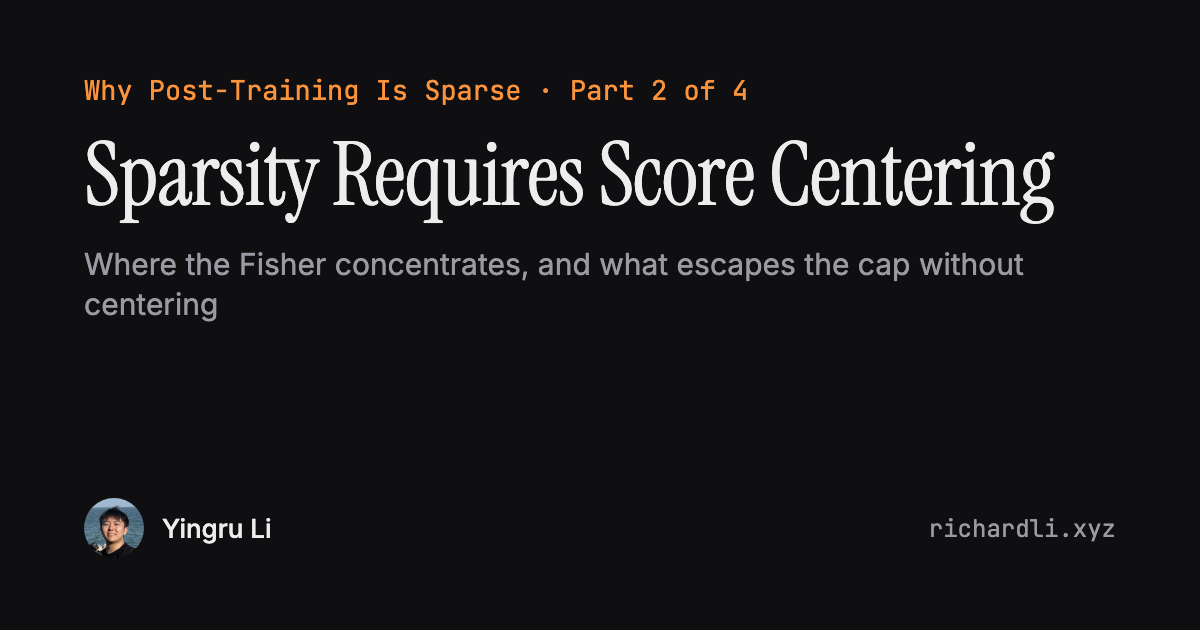
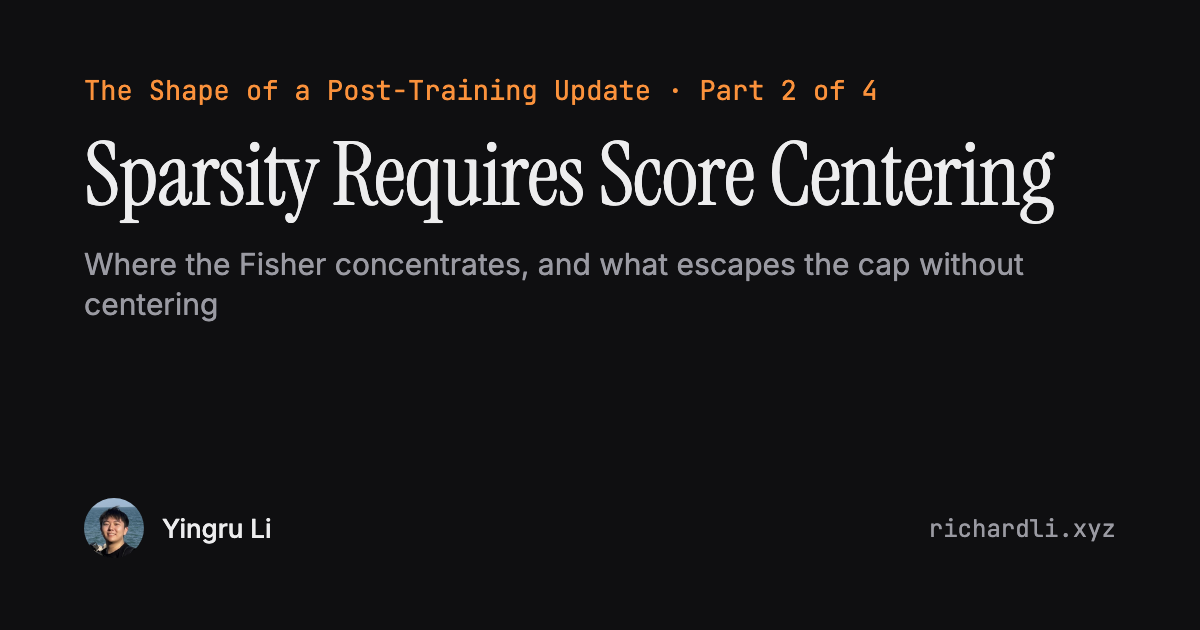
Rename series to The Shape of a Post-Training Update; broaden homepage science highlight

Changed region(s): [[0.0617, 0.1206, 0.74, 0.181]]

diff --git a/content/post/low-rank-hidden-space/index.md b/content/post/low-rank-hidden-space/index.md
@@ -1,6 +1,6 @@
 ---
 title: "Sparse in the Vocabulary, Low-Rank in Hidden Space"
-subtitle: "Why Post-Training Is Sparse, Part 4: the tokens that compete at forks bound the rank of the update"
+subtitle: "The Shape of a Post-Training Update, Part 4: the tokens that compete at forks bound the rank of the update"
 summary: "At the output layer only the rows of tokens that compete can move. The signal that backpropagation carries into the network is the drawn token's output vector minus the sampler's average, so it lies in the span of differences of those vectors and vanishes where the sampler is sure. A linear map that feeds the unembedding therefore gets an expected update of rank at most the number of competing tokens minus one, plus a leak set by the tail mass, and a LoRA of that rank carries the main part. Measured updates are numerically full rank yet spectrally concentrated; the optimizer and many steps account for the difference."
 authors:
   - admin
@@ -20,12 +20,12 @@ lastmod: '2026-10-24T00:00:00Z'
 math: true
 draft: false
 series:
-  - Why Post-Training Is Sparse
+  - The Shape of a Post-Training Update
 series_order: 4
 ---
 
 {{% callout note %}}
-**Why Post-Training Is Sparse · Part 4 of 4.** Follows the hidden-layer Fisher of [Part 2](/post/sparsity-score-centering/#2-hidden-layers-a-few-directions) from a cap on each parameter to the rank of a whole update.
+**The Shape of a Post-Training Update · Part 4 of 4.** Follows the hidden-layer Fisher of [Part 2](/post/sparsity-score-centering/#2-hidden-layers-a-few-directions) from a cap on each parameter to the rank of a whole update.
 
 - **The same tokens, in two bases.** At the output layer only the rows of tokens that compete can move: sparsity in the vocabulary. Inside the network those tokens appear through their output vectors, and the update is confined to the few directions that tell them apart: low rank in hidden space.
 - **Only forks send signal.** Backpropagation carries the drawn token's output vector minus the sampler's average. Its expected size shrinks to zero as the sampler's top token approaches probability one, so positions where the sampler is sure contribute almost nothing.

diff --git a/content/post/sparsity-score-centering/index.md b/content/post/sparsity-score-centering/index.md
@@ -1,6 +1,6 @@
 ---
 title: "Sparsity Requires Score Centering"
-subtitle: "Why Post-Training Is Sparse, Part 2: where the Fisher concentrates, and what escapes the cap without centering"
+subtitle: "The Shape of a Post-Training Update, Part 2: where the Fisher concentrates, and what escapes the cap without centering"
 summary: "Sparsity needs two ingredients. A score centered under the sampler makes the Fisher a cap on each parameter's update, and the Fisher is concentrated when the sampler puts its mass on a few likely tokens that react alike. Without centering, a mean shift escapes the cap. Supervised fine-tuning is all mean shift, because its signal is constant, so centering would leave nothing to learn."
 authors:
   - admin
@@ -20,12 +20,12 @@ lastmod: '2026-10-15T00:10:00Z'
 math: true
 draft: false
 series:
-  - Why Post-Training Is Sparse
+  - The Shape of a Post-Training Update
 series_order: 2
 ---
 
 {{% callout note %}}
-**Why Post-Training Is Sparse · Part 2 of 4.** Starts from the cap derived in [Part 1](/post/gradient-is-covariance/); [Part 3](/post/what-policy-gradient-can-reach/) asks what policy gradient can reach, and [Part 4](/post/low-rank-hidden-space/) follows the hidden-layer directions of section 2 to the rank of the update.
+**The Shape of a Post-Training Update · Part 2 of 4.** Starts from the cap derived in [Part 1](/post/gradient-is-covariance/); [Part 3](/post/what-policy-gradient-can-reach/) asks what policy gradient can reach, and [Part 4](/post/low-rank-hidden-space/) follows the hidden-layer directions of section 2 to the rank of the update.
 
 - **Two ingredients.** Centering under the sampler makes the Fisher a cap on each parameter's expected update, and a concentrated Fisher leaves room under that cap for only a few parameters. The reward picks which of those move.
 - **Centering can be done on either side.** On-policy sampling centers the score for free. Off-policy, subtract the score's average under the sampler, weight each token by its importance ratio, or subtract from the signal a per-prefix value baseline fitted on the samples, which needs no sampler probabilities.

diff --git a/content/post/what-policy-gradient-can-reach/index.md b/content/post/what-policy-gradient-can-reach/index.md
@@ -1,6 +1,6 @@
 ---
 title: "What Policy Gradient Can Reach"
-subtitle: "Why Post-Training Is Sparse, Part 3: a one-step bound on how far any response can move, and its limits"
+subtitle: "The Shape of a Post-Training Update, Part 3: a one-step bound on how far any response can move, and its limits"
 summary: "Per unit step of policy gradient, the log-odds between two responses change by at most std(A) times their score difference measured in the sampler's Fisher: a response moves only as far as it resembles what the sampler produces. With one logit per response, a rare response takes time proportional to one over its probability, while a demonstration needs only logarithmic time. The bound covers one step of one estimator; shared structure, many steps and a different sampler can all widen what policy gradient reaches."
 authors:
   - admin
@@ -19,12 +19,12 @@ lastmod: '2026-10-15T00:20:00Z'
 math: true
 draft: false
 series:
-  - Why Post-Training Is Sparse
+  - The Shape of a Post-Training Update
 series_order: 3
 ---
 
 {{% callout note %}}
-**Why Post-Training Is Sparse · Part 3 of 4.** Starts from the cap of [Part 1](/post/gradient-is-covariance/) and the concentrated Fisher of [Part 2](/post/sparsity-score-centering/); [Part 4](/post/low-rank-hidden-space/) bounds the rank of the update.
+**The Shape of a Post-Training Update · Part 3 of 4.** Starts from the cap of [Part 1](/post/gradient-is-covariance/) and the concentrated Fisher of [Part 2](/post/sparsity-score-centering/); [Part 4](/post/low-rank-hidden-space/) bounds the rank of the update.
 
 - **Reach follows resemblance.** Per unit step, the log-odds of a response against another change by at most std(*A*) · √(*v*ᵀ*Fv*), with *v* their score difference and *F* the sampler's Fisher.
 - **Resemblance reaches unsampled responses.** A response never drawn but similar to rewarded samples, like *matcha* after *tea*, moves with them; one that resembles nothing the sampler produces barely moves.

diff --git a/content/post/gradient-is-covariance/index.md b/content/post/gradient-is-covariance/index.md
@@ -1,6 +1,6 @@
 ---
 title: "The Gradient Is a Covariance"
-subtitle: "Why Post-Training Is Sparse, Part 1: the score, the Fisher, and a bound that holds for any reward"
+subtitle: "The Shape of a Post-Training Update, Part 1: the score, the Fisher, and a bound that holds for any reward"
 summary: "On the model's own samples the score has zero mean, so the expected policy gradient is the covariance between the learning signal and the score, and the Fisher is the score's variance. A parameter can move only if its Fisher is large; whether it does is up to the reward. Off-policy, all of this holds once the score is centered under the sampler."
 authors:
   - admin
@@ -19,12 +19,12 @@ lastmod: '2026-10-15T00:00:00Z'
 math: true
 draft: false
 series:
-  - Why Post-Training Is Sparse
+  - The Shape of a Post-Training Update
 series_order: 1
 ---
 
 {{% callout note %}}
-**Why Post-Training Is Sparse · Part 1 of 4.** [Part 2](/post/sparsity-score-centering/) finds where the sparsity comes from. [Part 3](/post/what-policy-gradient-can-reach/) asks what policy gradient can reach. [Part 4](/post/low-rank-hidden-space/) turns the same few directions into a bound on the rank of the update.
+**The Shape of a Post-Training Update · Part 1 of 4.** [Part 2](/post/sparsity-score-centering/) finds where the sparsity comes from. [Part 3](/post/what-policy-gradient-can-reach/) asks what policy gradient can reach. [Part 4](/post/low-rank-hidden-space/) turns the same few directions into a bound on the rank of the update.
 
 - Reinforcement learning (RL), on-policy distillation and supervised fine-tuning (SFT) on near-policy data change only a small fraction of parameters. **Small** and **sparse** are different claims; the question is which coordinates move.
 - On the model's own samples the score has **zero mean**. So the expected gradient is a **covariance**, the Fisher is a **variance**, and the Fisher caps the gradient for any reward.

diff --git a/content/post/information-bandwidth-rl/index.md b/content/post/information-bandwidth-rl/index.md
@@ -160,7 +160,7 @@ For the scalar form, {{< math >}}$B${{< /math >}} counts the values {{< math >}}
 - **The sampler.** {{< math >}}$H(\mathbf r\mid\tau,\mathcal H)${{< /math >}} depends on which response is drawn, so a sampler that goes where the outcome is uncertain gets more bits per episode. Information-directed sampling ([Russo & Van Roy, 2018](https://arxiv.org/abs/1403.5556)) picks samples by trading this information against regret. Thompson sampling sends the learner where plausible models disagree, which is where outcomes are uncertain, and [Exploration at Scale](/post/scalable-exploration/) makes it affordable for deep networks.
 - **Someone else's responses.** The lemma rests on one fact: the learner drew {{< math >}}$\tau${{< /math >}} itself. A demonstration is drawn by someone else, so the response itself carries information, up to {{< math >}}$T\log_2\lvert\mathcal V\rvert${{< /math >}} bits for a vocabulary {{< math >}}$\mathcal V${{< /math >}}. This is why SFT can teach far more per episode, and why it lifts rare responses that policy gradient raises only slowly ([What Policy Gradient Can Reach](/post/what-policy-gradient-can-reach/)).
 
-Few bits explain why an RL update carries little. Which coordinates it moves is a separate question, the subject of [Why Post-Training Is Sparse](/post/gradient-is-covariance/).
+Few bits explain why an RL update carries little. Which coordinates and directions it moves is a separate question, the subject of [The Shape of a Post-Training Update](/post/gradient-is-covariance/); the few bits are also one reason a rank-one adapter can carry an RL update ([Part 4](/post/low-rank-hidden-space/#3-what-this-says-about-lora)).
 
 ## 6. Scope
 

diff --git a/content/post/offpolicy-around-the-sampler/index.md b/content/post/offpolicy-around-the-sampler/index.md
@@ -163,7 +163,7 @@ s_{y_t} - \bar s_t \;\to\; e_{y_t} - \ps \ \text{ at the logits}.
 $$
 {{< /math >}}
 
-Averaged over what the sampler draws, the raises and lowerings cancel, so a constant reward moves nothing. The plain score averages to zero under the trainer, not under the sampler, so without centering even a constant reward pushes the policy. That is the off-policy bias in its simplest form. Score centering has an independent public treatment in [Marek & Ryabinin (2026)](https://arxiv.org/abs/2609.20807); here it is simply the gradient of the tangent. It is also why post-training updates are sparse: see [Why Post-Training Is Sparse](/post/sparsity-score-centering/).
+Averaged over what the sampler draws, the raises and lowerings cancel, so a constant reward moves nothing. The plain score averages to zero under the trainer, not under the sampler, so without centering even a constant reward pushes the policy. That is the off-policy bias in its simplest form. Score centering has an independent public treatment in [Marek & Ryabinin (2026)](https://arxiv.org/abs/2609.20807); here it is simply the gradient of the tangent. It is also why post-training updates are sparse: see [The Shape of a Post-Training Update, Part 2](/post/sparsity-score-centering/).
 
 ## 5. Per-token importance sampling: same tangent, more variance
 

diff --git a/content/post/rl-collapse-part2/index.md b/content/post/rl-collapse-part2/index.md
@@ -134,7 +134,7 @@ This proves the variance is $\mathbf{Var}(\hat{g}\_{\text{seq}}) = O((1 + \bar{\
 
 {{< /spoiler >}}
 
-The same {{< math >}}$(1+\chi^2)^T${{< /math >}} growth reappears as the signal scale of SFT, whose score is not centered under the sampler ([Why Post-Training Is Sparse, Part 2](/post/sparsity-score-centering/#3-without-centering-the-mean-shift)).
+The same {{< math >}}$(1+\chi^2)^T${{< /math >}} growth reappears as the signal scale of SFT, whose score is not centered under the sampler ([The Shape of a Post-Training Update, Part 2](/post/sparsity-score-centering/#3-without-centering-the-mean-shift)).
 
 ### Self-Normalized Sequence-Level IS (SNIS)
 
